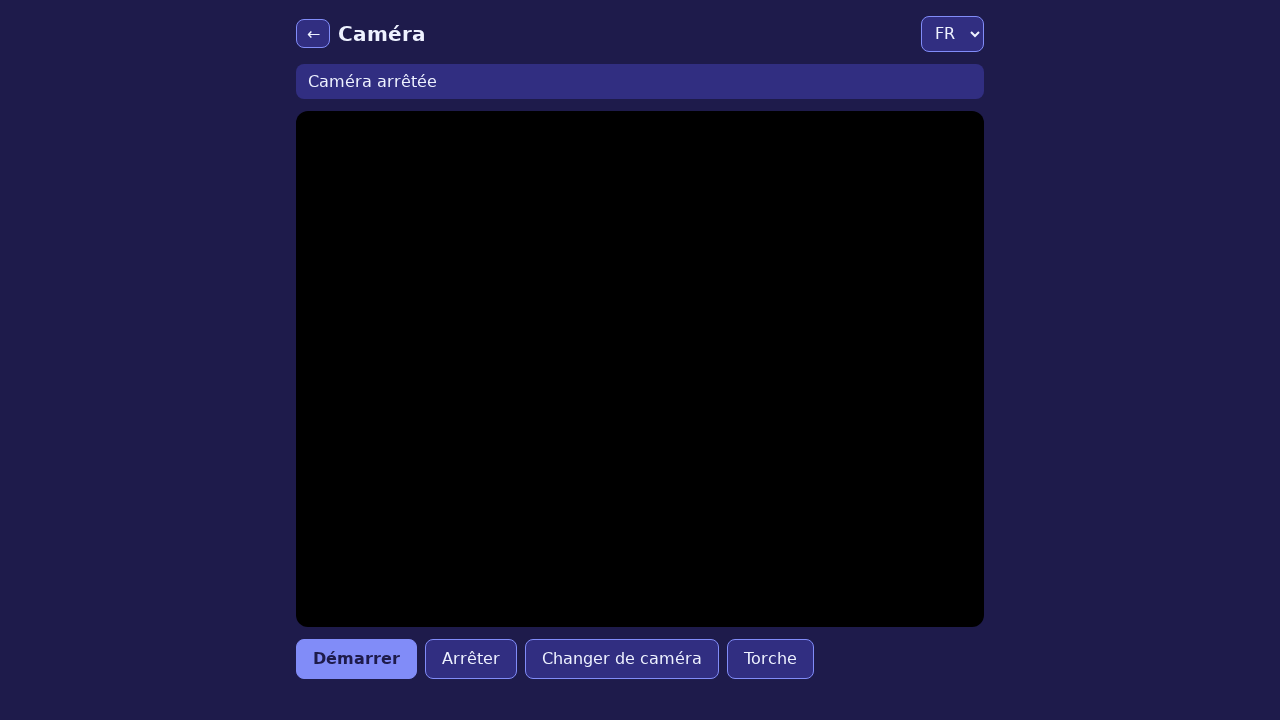
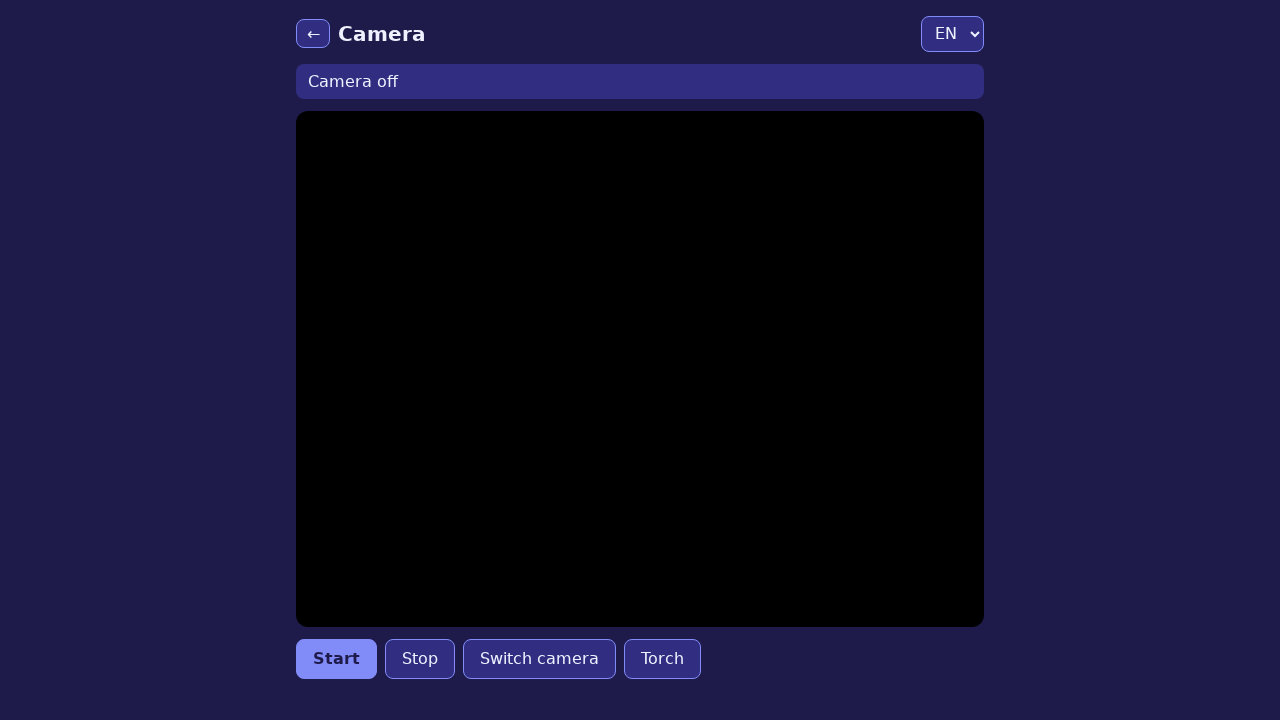
feat(I0.3): i18n FR/EN (sélecteur + persistance) avec tests unitaires vitest et E2E

Changed region(s): [[0.25, 0.8861, 0.6562, 0.9472], [0.2812, 0.0917, 0.3438, 0.1222], [0.7188, 0.0306, 0.75, 0.0611]]

diff --git a/src/shared/i18n.ts b/src/shared/i18n.ts
@@ -1,0 +1,97 @@
+export type Lang = 'fr' | 'en';
+export const LANGS: Lang[] = ['fr', 'en'];
+
+const STORAGE_KEY = 'babycam.lang';
+
+export const DICTS: Record<Lang, Record<string, string>> = {
+  fr: {
+    'app.title': 'Babycam',
+    'home.subtitle': 'Surveille bébé depuis un autre appareil.',
+    'home.camera': 'Je surveille (caméra)',
+    'home.viewer': 'Je regarde (viewer)',
+    'home.language': 'Langue',
+    'camera.title': 'Caméra',
+    'camera.status.idle': 'Caméra arrêtée',
+    'camera.status.running': 'Caméra en cours…',
+    'camera.start': 'Démarrer',
+    'camera.stop': 'Arrêter',
+    'camera.switch': 'Changer de caméra',
+    'camera.torch': 'Torche',
+    'viewer.title': 'Viewer',
+    'viewer.status.idle': 'Non appairé',
+    'viewer.unmute': 'Activer le son',
+    'viewer.fullscreen': 'Plein écran',
+  },
+  en: {
+    'app.title': 'Babycam',
+    'home.subtitle': 'Watch your baby from another device.',
+    'home.camera': 'I monitor (camera)',
+    'home.viewer': 'I watch (viewer)',
+    'home.language': 'Language',
+    'camera.title': 'Camera',
+    'camera.status.idle': 'Camera off',
+    'camera.status.running': 'Camera running…',
+    'camera.start': 'Start',
+    'camera.stop': 'Stop',
+    'camera.switch': 'Switch camera',
+    'camera.torch': 'Torch',
+    'viewer.title': 'Viewer',
+    'viewer.status.idle': 'Not paired',
+    'viewer.unmute': 'Enable sound',
+    'viewer.fullscreen': 'Fullscreen',
+  },
+};
+
+function storageGet(key: string): string | null {
+  try {
+    return localStorage.getItem(key);
+  } catch {
+    return null;
+  }
+}
+
+function storageSet(key: string, value: string): void {
+  try {
+    localStorage.setItem(key, value);
+  } catch {
+    // stockage indisponible (ex. tests node) : on ignore
+  }
+}
+
+function detectLang(): Lang {
+  const saved = storageGet(STORAGE_KEY);
+  if (saved === 'fr' || saved === 'en') return saved;
+  const nav = typeof navigator !== 'undefined' ? navigator.language : '';
+  return nav.toLowerCase().startsWith('fr') ? 'fr' : 'en';
+}
+
+let current: Lang = detectLang();
+
+export function getLang(): Lang {
+  return current;
+}
+
+export function setLang(lang: Lang): void {
+  current = lang;
+  storageSet(STORAGE_KEY, lang);
+  applyTranslations();
+}
+
+export function t(key: string): string {
+  return DICTS[current][key] ?? DICTS.en[key] ?? key;
+}
+
+export function applyTranslations(root?: ParentNode): void {
+  const target = root ?? (typeof document !== 'undefined' ? document : undefined);
+  if (!target) return;
+  target.querySelectorAll('[data-i18n]').forEach((el) => {
+    const key = el.getAttribute('data-i18n');
+    if (key) el.textContent = t(key);
+  });
+  if (typeof document !== 'undefined') document.documentElement.lang = current;
+}
+
+export function initLangSelect(select: HTMLSelectElement): void {
+  select.value = current;
+  select.addEventListener('change', () => setLang(select.value as Lang));
+}

diff --git a/src/shared/i18n.test.ts b/src/shared/i18n.test.ts
@@ -1,0 +1,24 @@
+import { describe, expect, it } from 'vitest';
+import { DICTS, getLang, LANGS, setLang, t } from './i18n';
+
+describe('i18n', () => {
+  it('bascule entre fr et en', () => {
+    setLang('fr');
+    expect(getLang()).toBe('fr');
+    expect(t('home.camera')).toBe('Je surveille (caméra)');
+    setLang('en');
+    expect(getLang()).toBe('en');
+    expect(t('home.camera')).toBe('I monitor (camera)');
+  });
+
+  it('retombe sur la clé si elle est inconnue', () => {
+    expect(t('cle.inconnue')).toBe('cle.inconnue');
+  });
+
+  it('toutes les langues ont exactement les mêmes clés', () => {
+    const ref = Object.keys(DICTS.en).sort();
+    for (const lang of LANGS) {
+      expect(Object.keys(DICTS[lang]).sort()).toEqual(ref);
+    }
+  });
+});

diff --git a/e2e/i18n.spec.ts b/e2e/i18n.spec.ts
@@ -1,0 +1,13 @@
+import { expect, test } from '@playwright/test';
+import { shot } from './helpers';
+
+test('sélecteur de langue FR/EN', async ({ page }) => {
+  await page.goto('index.html');
+  await page.selectOption('#lang-select', 'fr');
+  await expect(page.locator('[data-i18n="home.camera"]')).toHaveText('Je surveille (caméra)');
+  await page.selectOption('#lang-select', 'en');
+  await expect(page.locator('[data-i18n="home.camera"]')).toHaveText('I monitor (camera)');
+  await shot(page, 'I0.3-home-en');
+  await page.selectOption('#lang-select', 'fr');
+  await expect(page.locator('[data-i18n="home.camera"]')).toHaveText('Je surveille (caméra)');
+});

diff --git a/e2e/pwa.spec.ts b/e2e/pwa.spec.ts
@@ -38,6 +38,8 @@ test('service worker enregistré + app shell offline', async ({ page, context })
     null,
     { timeout: 30_000 },
   );
+  await page.reload();
+  await page.waitForFunction(() => navigator.serviceWorker.controller !== null, null, { timeout: 30_000 });
 
   await context.setOffline(true);
   await page.reload();

diff --git a/src/pages/camera/main.ts b/src/pages/camera/main.ts
@@ -1,1 +1,6 @@
 import '../../shared/style.css';
+import { applyTranslations, initLangSelect } from '../../shared/i18n';
+
+applyTranslations();
+const langSelect = document.querySelector<HTMLSelectElement>('#lang-select');
+if (langSelect) initLangSelect(langSelect);

diff --git a/src/pages/home/main.ts b/src/pages/home/main.ts
@@ -1,1 +1,6 @@
 import '../../shared/style.css';
+import { applyTranslations, initLangSelect } from '../../shared/i18n';
+
+applyTranslations();
+const langSelect = document.querySelector<HTMLSelectElement>('#lang-select');
+if (langSelect) initLangSelect(langSelect);

diff --git a/src/pages/viewer/main.ts b/src/pages/viewer/main.ts
@@ -1,1 +1,6 @@
 import '../../shared/style.css';
+import { applyTranslations, initLangSelect } from '../../shared/i18n';
+
+applyTranslations();
+const langSelect = document.querySelector<HTMLSelectElement>('#lang-select');
+if (langSelect) initLangSelect(langSelect);
